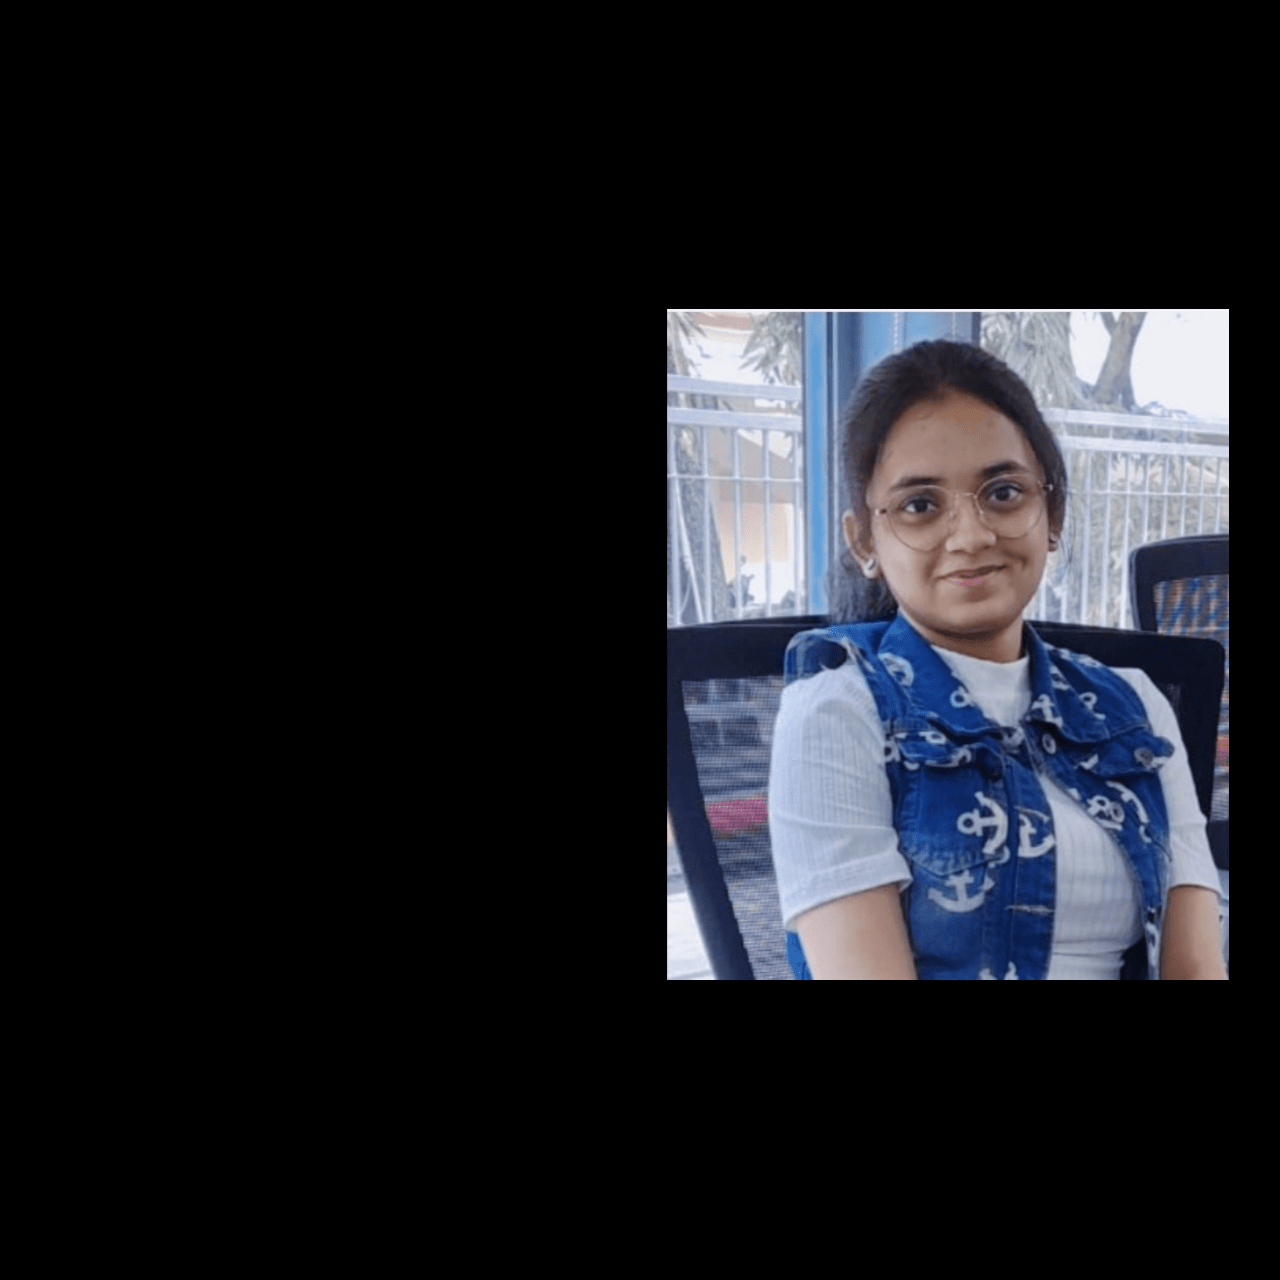
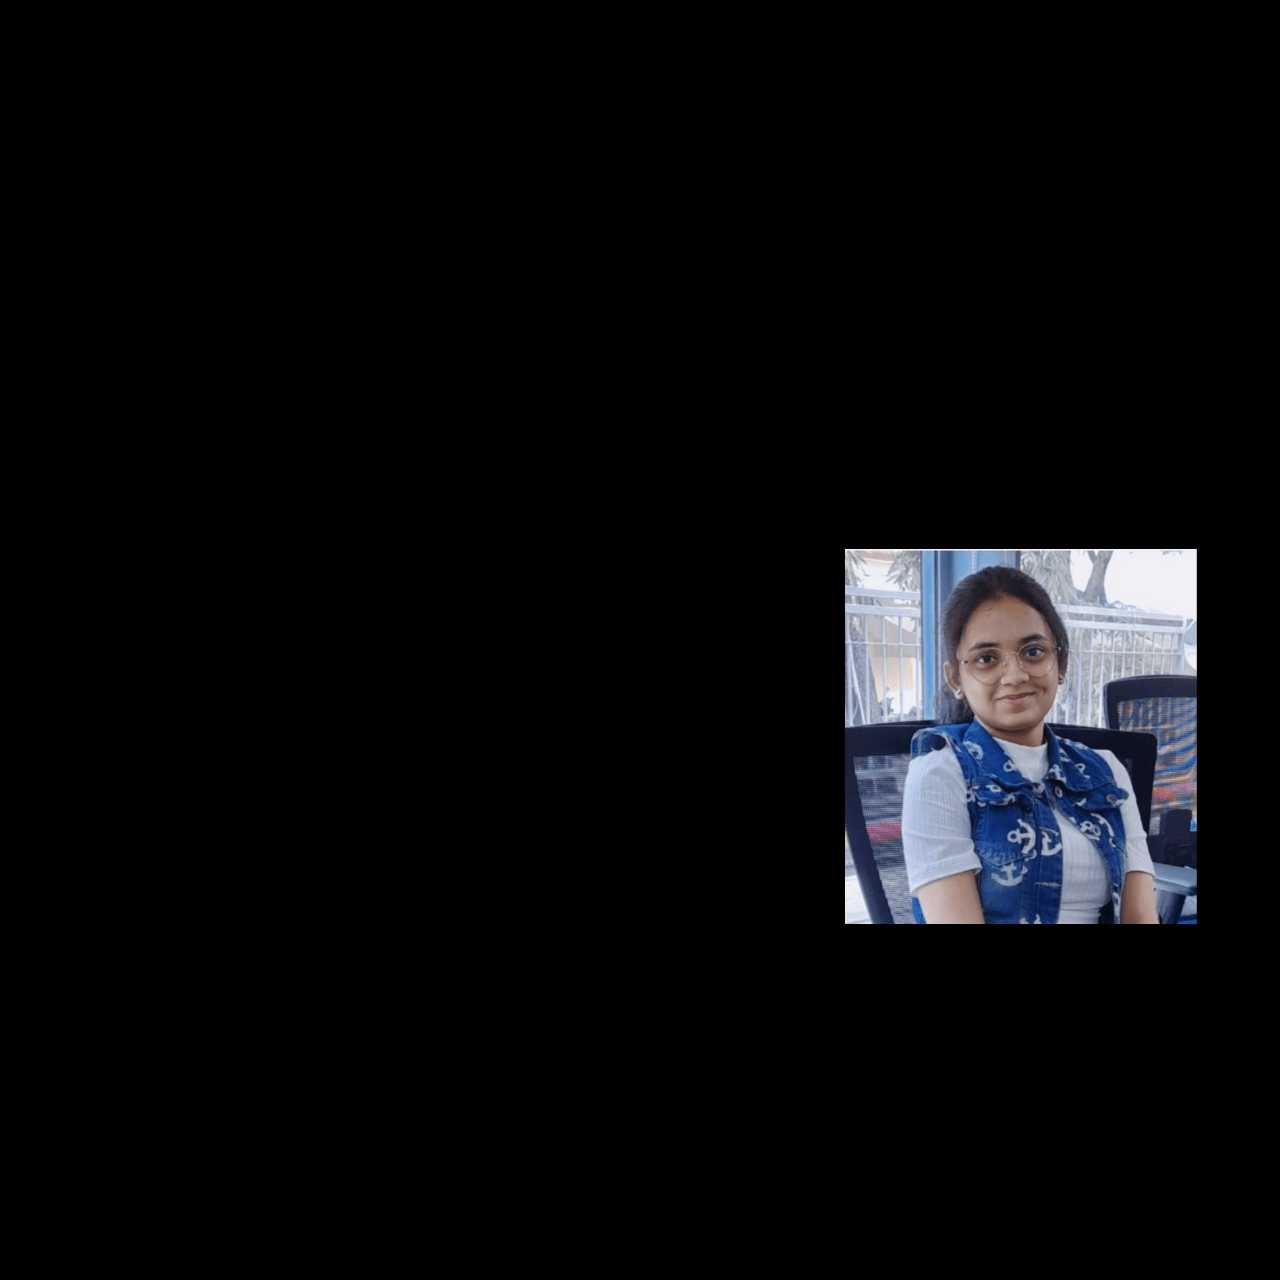
newchanges

Changed region(s): [[0.5, 0.2188, 0.9688, 0.7812]]

diff --git a/index.html b/index.html
@@ -14,11 +14,11 @@
     <div class="container">
       <nav>
           <ul>
-          <li><a href="#">Home</a></li>
-          <li><a href="#">About</a></li>
-          <li><a href="#">Experience</a></li>
-          <li><a href="#">Projects</a></li>
-          <li><a href="#">Contact</a></li>
+          <li><a href="#header">Home</a></li>
+          <li><a href="#about">About</a></li>
+          <li><a href="#experience">Experience</a></li>
+          <li><a href="#project">Projects</a></li>
+          <li><a href="#contact">Contact</a></li>
          
           </ul>
       </nav>
@@ -33,7 +33,7 @@
       <div class="container">
         <div class="row">
           <div class="about-colo1">
-            <img src="images/pic.jpg">
+            <img src="images/my_pic.png">
           </div>
           <div class="about-colo2">
             <h1 class="about-title">About Me</h1>
@@ -42,7 +42,7 @@
             </p>
             <div class="tab-titles">
               <p class="tab-links active-link" onclick="opentab('skills')">Skills</p>
-              <p class="tab-links" onclick="opentab('experience')">Experience</p>
+              <p class="tab-links" onclick="opentab('experience1')">Experience</p>
               <p class="tab-links" onclick="opentab('education')">Education</p>
             </div>
             <div class="tab-contents active-tab" id="skills">
@@ -54,7 +54,7 @@
 
               </ul>
             </div>
-            <div class="tab-contents" id="experience">
+            <div class="tab-contents" id="experience1">
               <ul>
                 <li><span>Dassault Systemes(Apr,2022-Present)</span><br>R&D Development Associate Engineer</li>
                 <li><span>Cognizant Technology Solutions(Aug,2021-March,2022)</span><br>Programmer Analyst Trainee</li>
@@ -84,7 +84,7 @@
             <h2 style="font-style: italic">R&D Development Associate Engineer</h2>
             <h2>Dassault Systemes</h2>
             <h3>Apr,2022-Present</h3>
-            <p><span class="highlight">Learning:</span>WebUX Components, MQL, RDP, VSL.<br>Worked on 3DMerchandising Appplication and created a service. </p>
+            <p><span class="highlight">Learning:</span>WebUX Components, MQL, RDP, VSL.<br>Worked on 3DMerchandising Application and created a service. </p>
           </div>
           <div>
             <i class="fa-solid fa-code"></i>

diff --git a/index.css b/index.css
@@ -5,6 +5,10 @@
   font-family: 'Poppins', 'sans-serif';
   box-sizing: border-box;
 }
+html
+{
+  scroll-behavior: smooth;
+}
 body
 {
   background: #080808;
